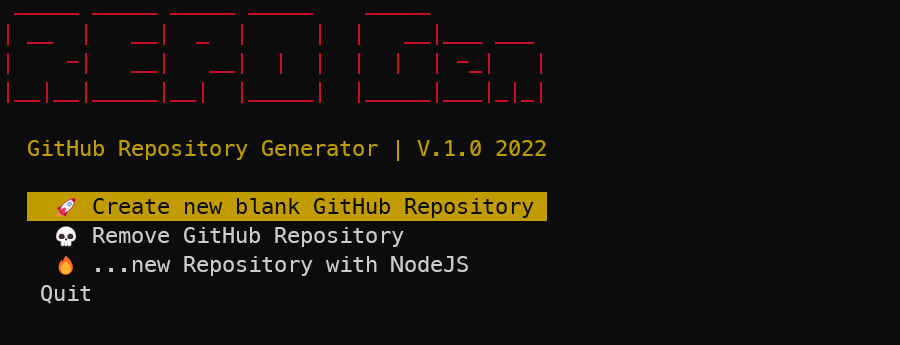
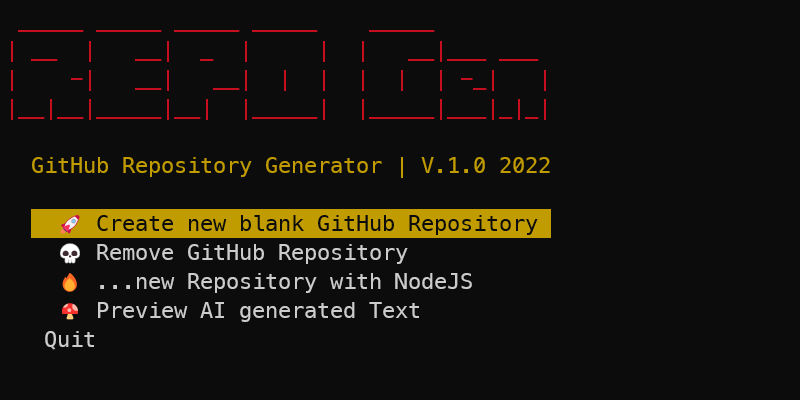
support for ai text added

diff --git a/templates/_src/server.js b/templates/_src/server.js
@@ -42,7 +42,7 @@ const SERVER_PORT = process.env.SERVER_PORT || ${IN_SERVER_PORT}
 // Dasboard HTML Page
 app.get("/", async (req, res) => {    
     res.setHeader('Content-Type', 'text/html')
-    res.status(200).sendFile(`${public_folder}index.htm`)
+    res.status(200).sendFile(`${public_folder}index.html`)
 })
 
 // Return some data

diff --git a/README.md b/README.md
@@ -15,13 +15,11 @@ Please adjust the template_data.yml file before the script.
 # template_data.yml to proceed
 
 # Settings
-  app_name: # your-app-name
-  app_keywords: # some keywords for AI
   server_port: # server port
   git_token: # your gitub token
   git_user: # your gituser name
   git_name: # your-app-name
-  git_desc: # this can be manually added, or will be replaced from AI
+  git_desc: # Simple sentence, or keywords for the AI
   git_private: # true for private repo
   git_gitignore_template: # ignore templates from gitub
   git_license_template: # license template from github
